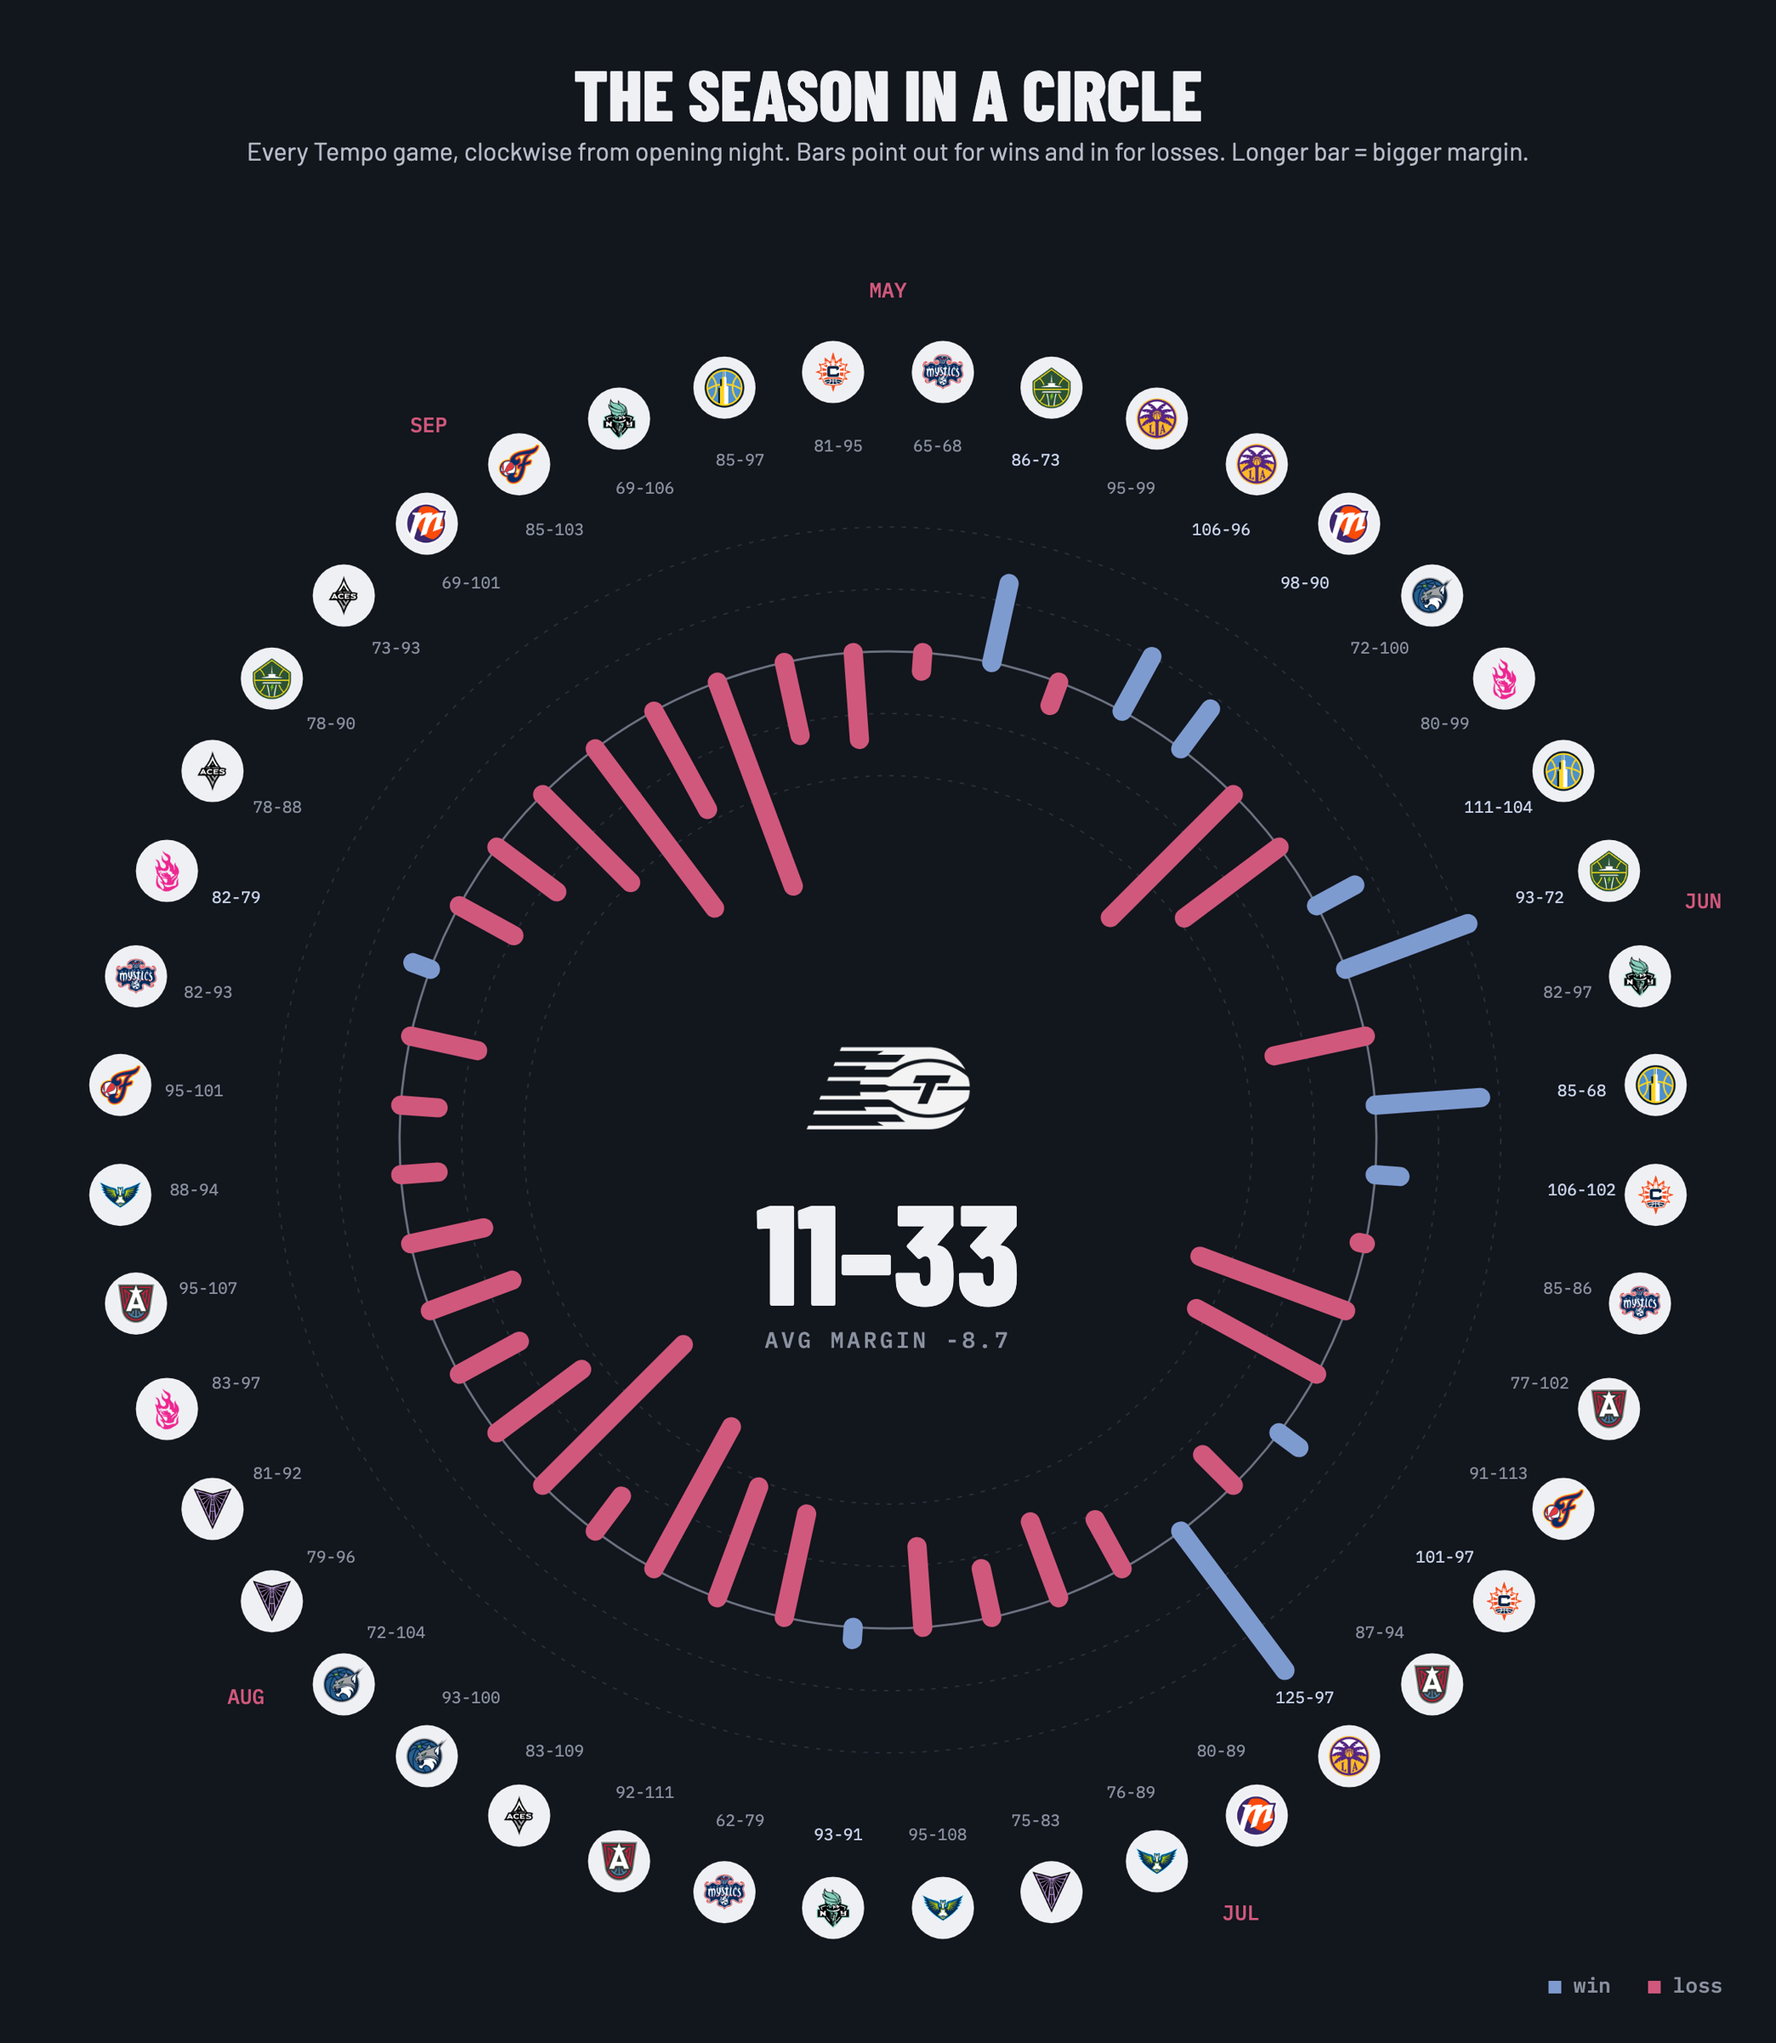
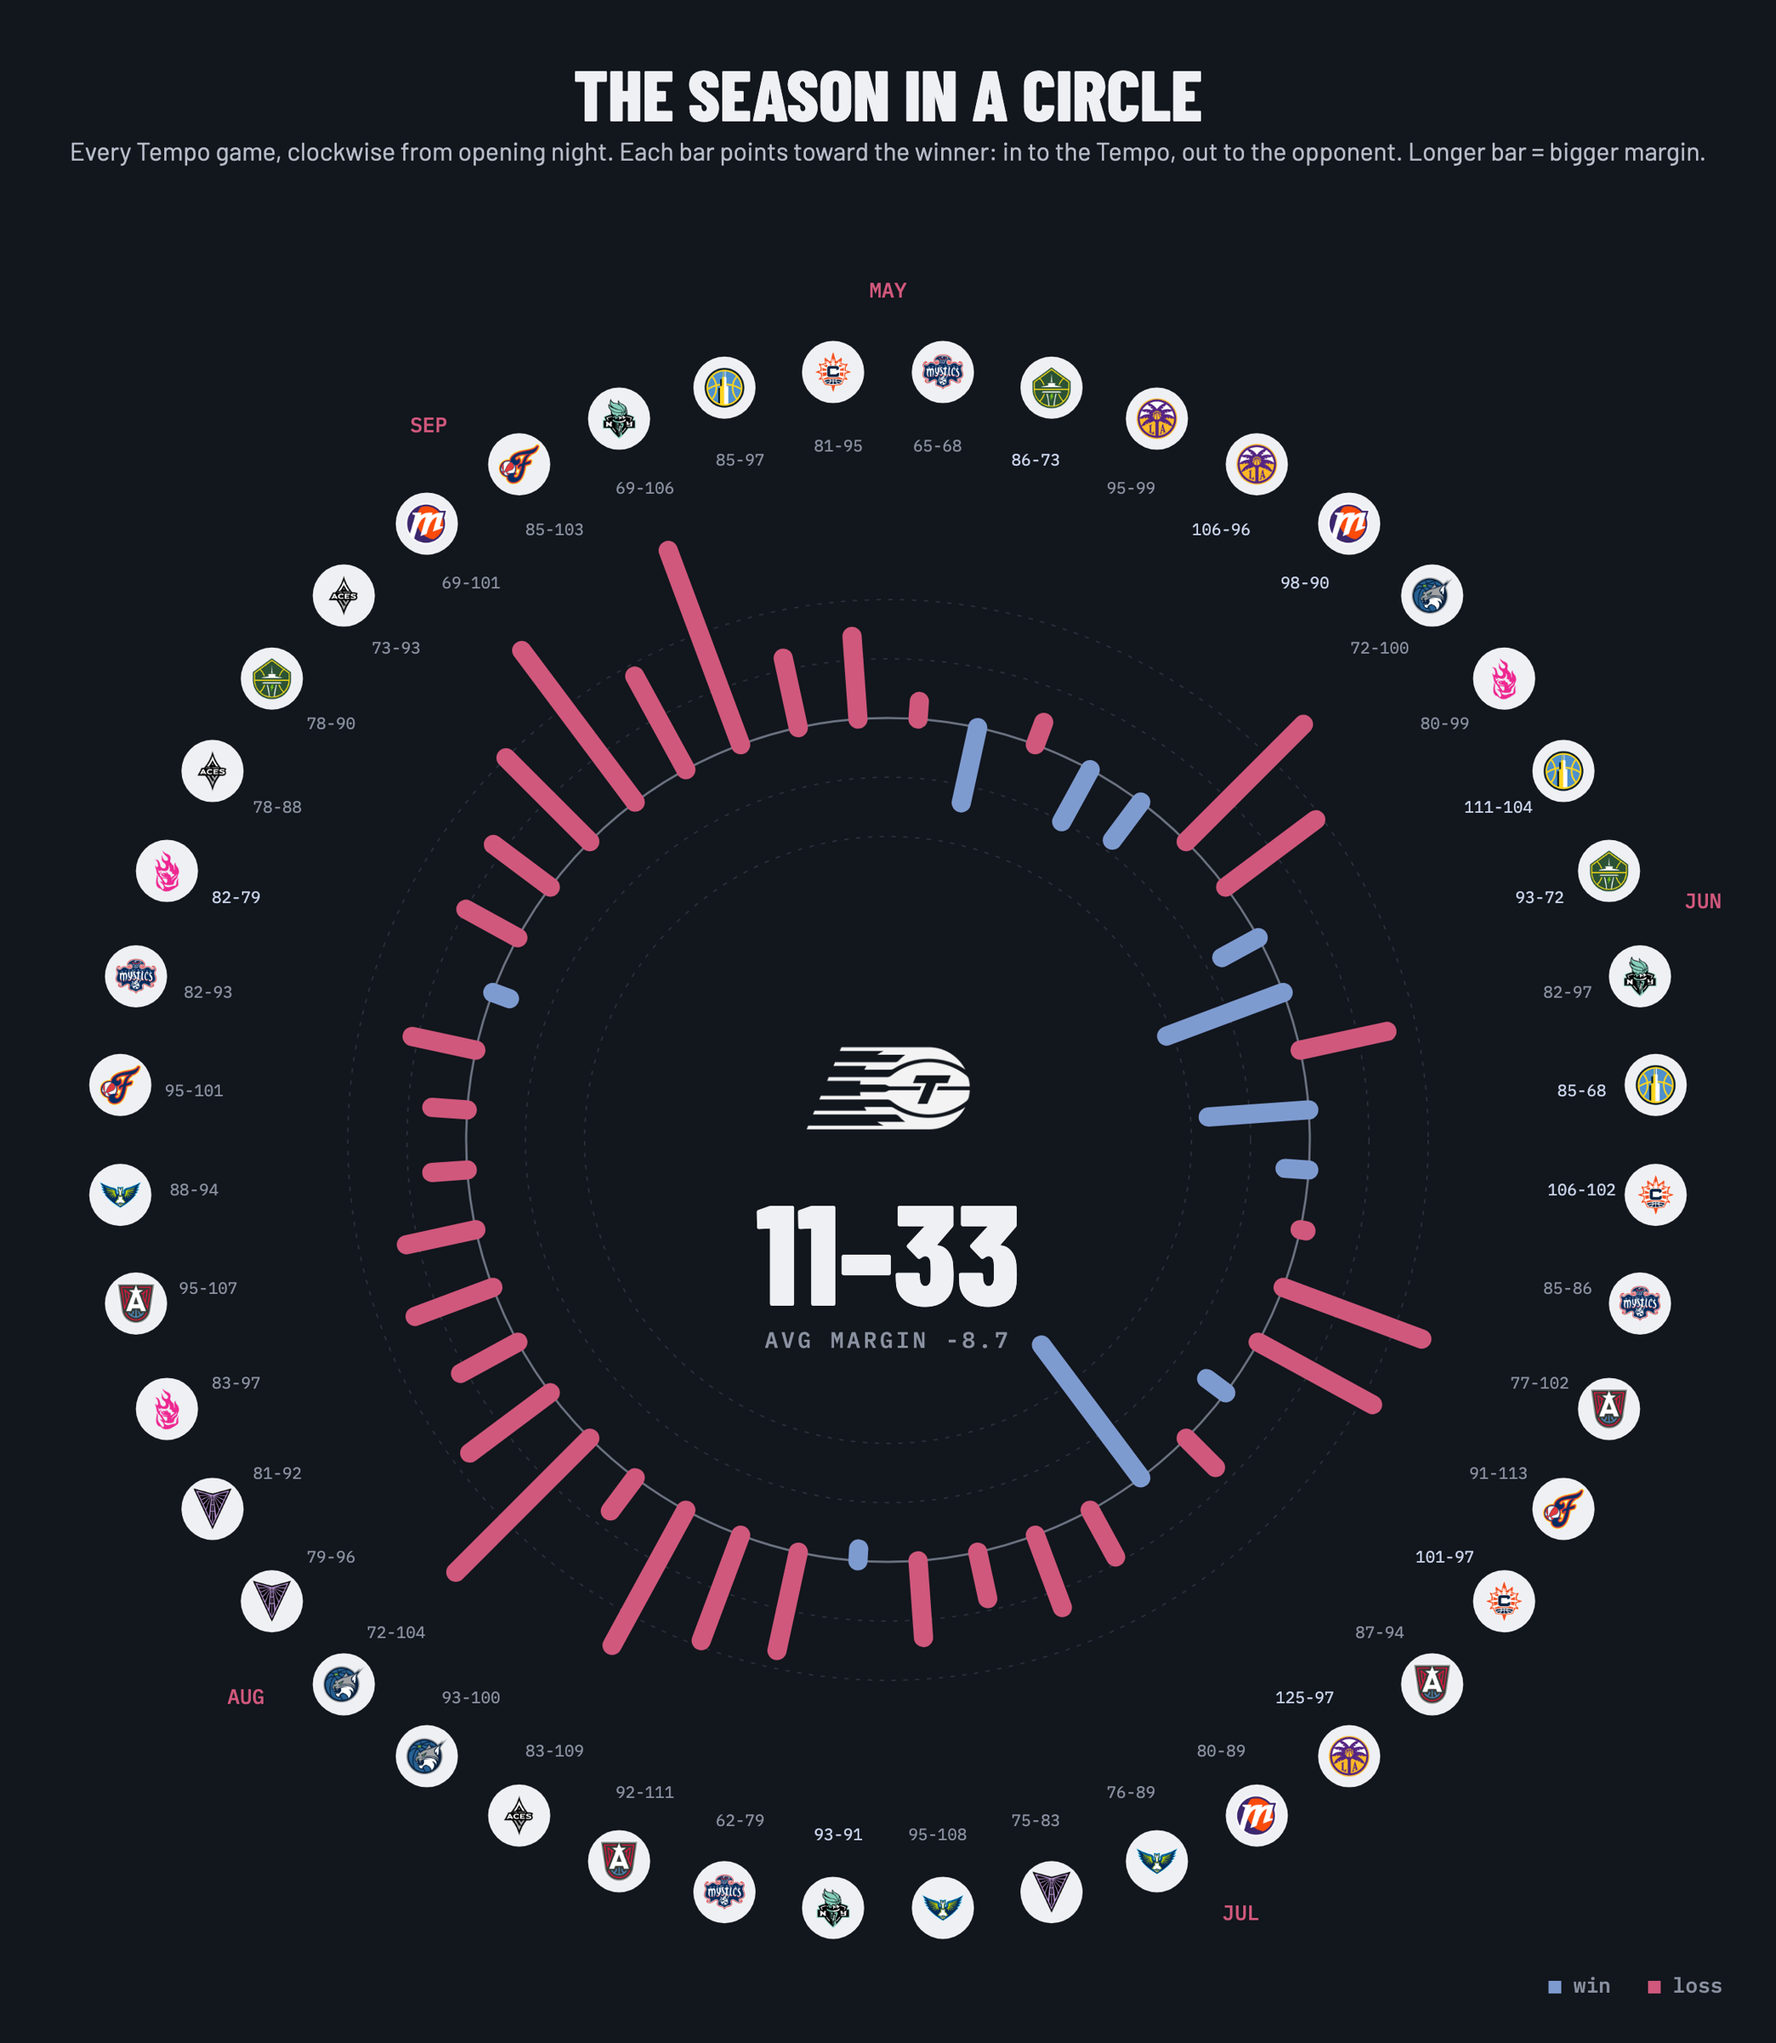
Season ring: bars point toward the winner (in = Tempo win, out = opponent win)

diff --git a/readme_art/make_art.py b/readme_art/make_art.py
@@ -147,8 +147,8 @@ def season_ring():
     S = 1200          # picture width
     HT = 1380         # picture height (taller so the title sits above the ring)
     cx, cy = S / 2, 770
-    base = 330      # radius of the "zero" circle
-    scale = 4.2     # pixels per point of margin
+    base = 285      # radius of the "zero" circle
+    scale = 4.0     # pixels per point of margin (a 35-point loss reaches 425 px, inside the score labels at 470)
     parts = []
     n = len(games)
     # light rings for +10/+20 and -10/-20 so you can read the bars
@@ -158,7 +158,8 @@ def season_ring():
     for i, g in games.iterrows():
         # angle for this game: start at the top (-90 degrees) and go clockwise
         a = np.radians(-90 + (i + 0.5) * 360 / n)
-        r1 = base + max(-35, min(35, g.margin)) * scale
+        # bars point toward the winner: IN toward the Tempo logo for a win, OUT toward the opponent's logo for a loss
+        r1 = base - max(-35, min(35, g.margin)) * scale
         x0, y0 = cx + base * np.cos(a), cy + base * np.sin(a)
         x1, y1 = cx + r1 * np.cos(a), cy + r1 * np.sin(a)
         color = "#7e9bd0" if g.margin > 0 else "#d0587c"
@@ -193,7 +194,7 @@ def season_ring():
       </div>
       <div style="position:absolute;left:0;right:0;top:34px;text-align:center">
         <div style="font:800 48px 'Barlow Condensed';text-transform:uppercase">The season in a circle</div>
-        <div style="font:400 17px Barlow;color:#b7bdc9">Every Tempo game, clockwise from opening night. Bars point out for wins and in for losses. Longer bar = bigger margin.</div>
+        <div style="font:400 17px Barlow;color:#b7bdc9">Every Tempo game, clockwise from opening night. Each bar points toward the winner: in to the Tempo, out to the opponent. Longer bar = bigger margin.</div>
       </div>
       <div style="position:absolute;right:36px;bottom:30px;text-align:right;font:500 14px 'IBM Plex Mono';color:#8a91a0">
         <span style="color:#7e9bd0">■</span> win &nbsp; <span style="color:#d0587c">■</span> loss</div>

diff --git a/README.md b/README.md
@@ -36,7 +36,7 @@ The Tempo, the 2026 Portland Fire and the 2025 Golden State Valkyries all starte
 <td width="55%"><img src="readme_art/out/season-ring.png" alt="Every Tempo game arranged in a circle"></td>
 <td width="45%">
 
-**44 games, one picture.** Each bar is one game, and the length of the bar is the final margin.
+**44 games, one picture.** Each bar is one game and points toward the winner: in toward the Tempo logo for a win, out toward the opponent's logo for a loss. Longer bar = bigger margin.
 
 - **9 of the 11 wins** came in May and June (top right).
 - After beating New York on July 12, Toronto won only once more: **82–79 over Portland** on August 21.
